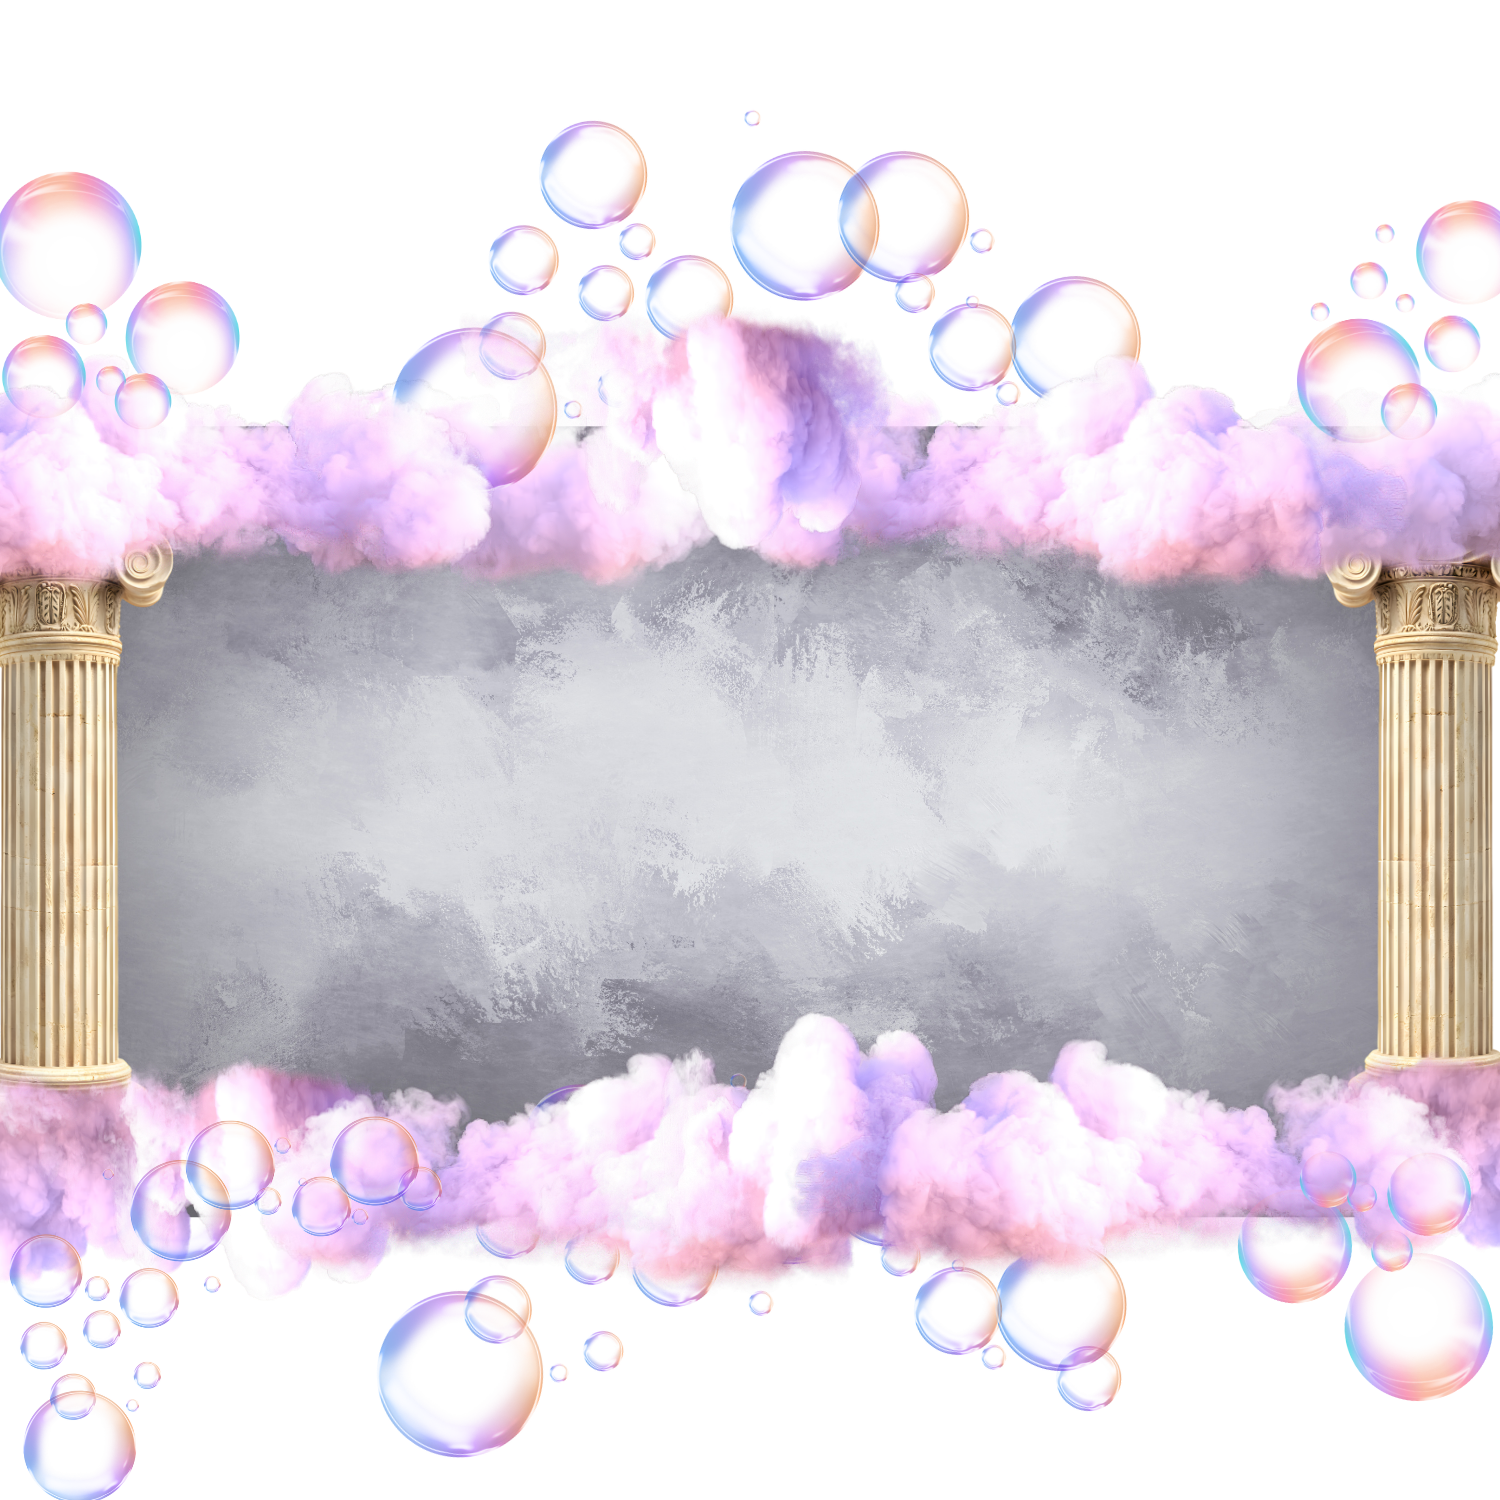
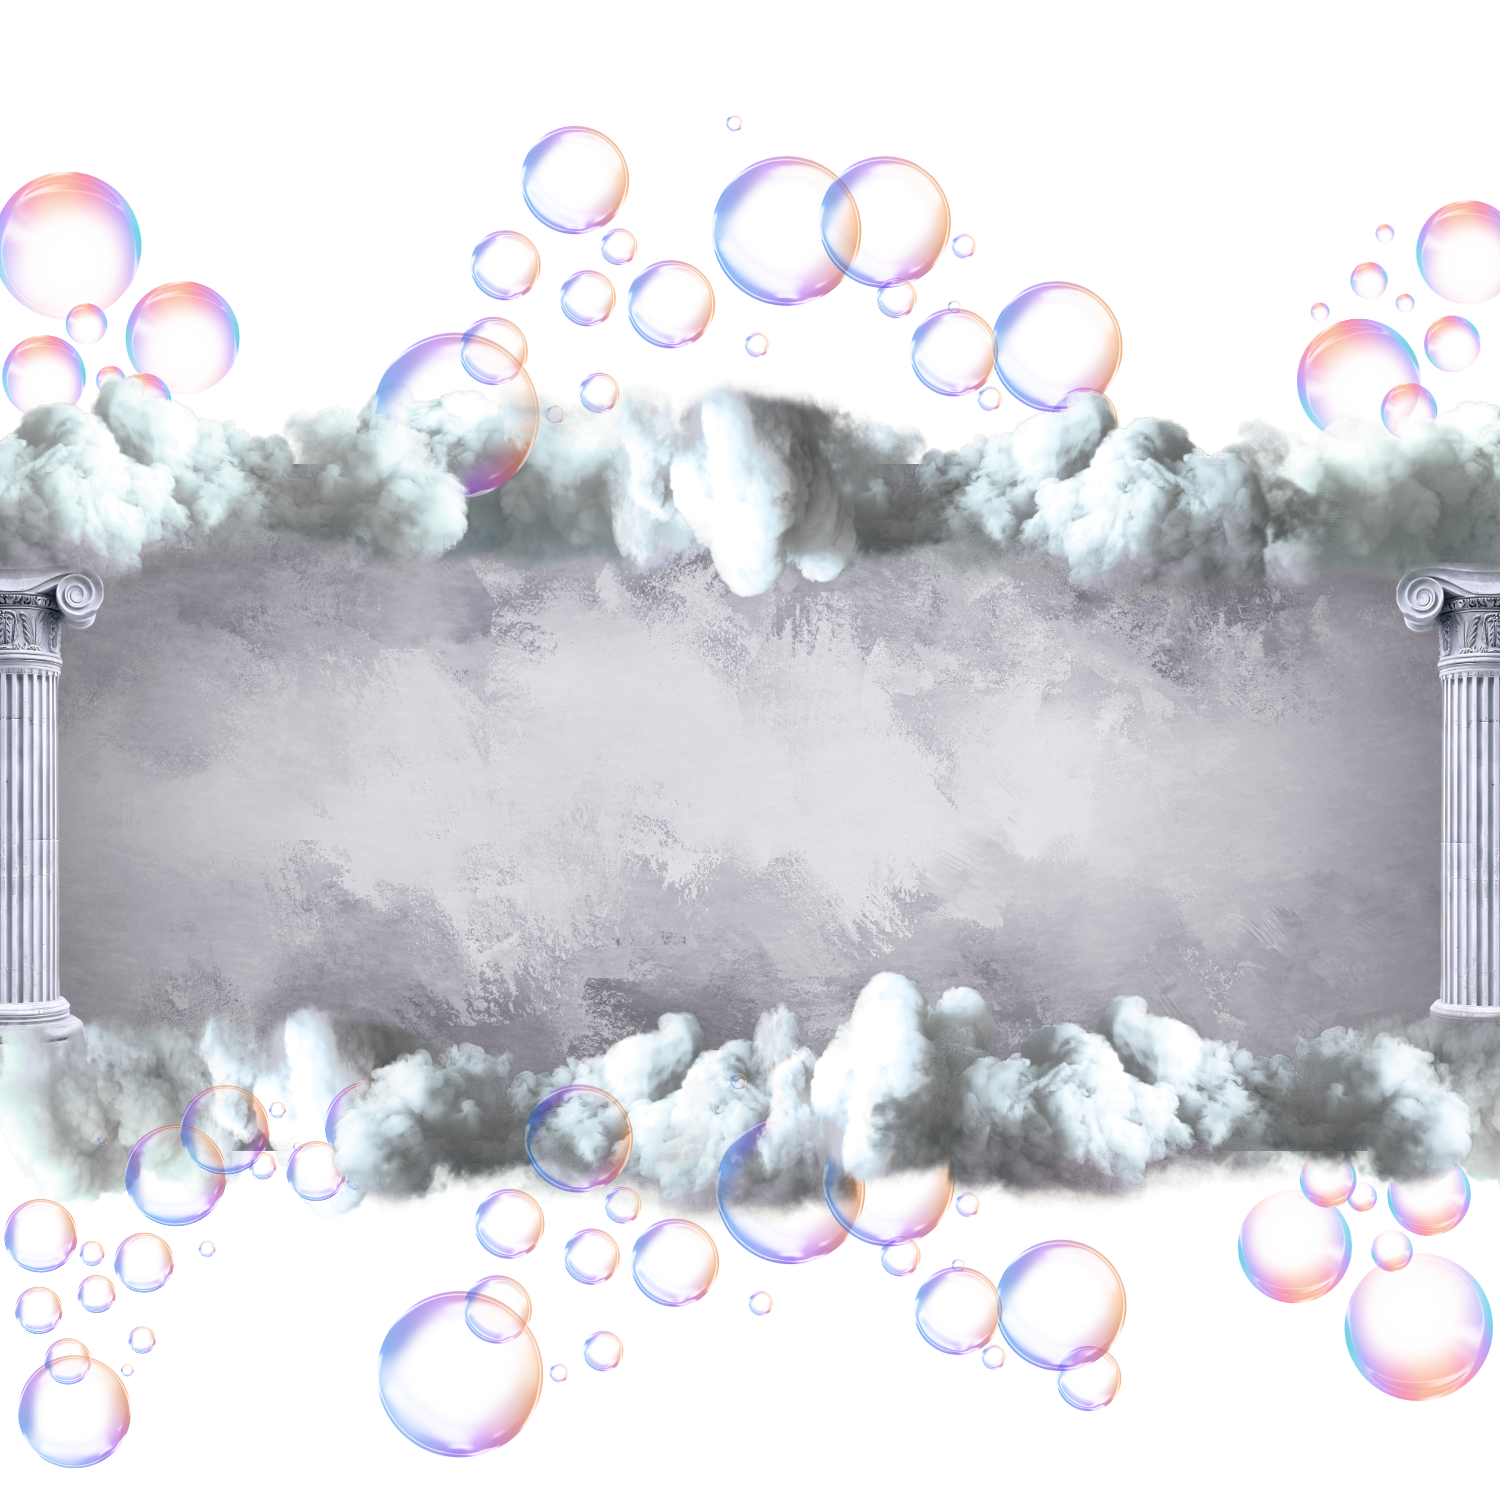
v0.19

diff --git a/src/components/invitation/Guidelines.tsx b/src/components/invitation/Guidelines.tsx
@@ -1,13 +1,27 @@
-import { Shirt, Palette, AlertTriangle } from "lucide-react";
+import { Shirt, Palette, AlertTriangle } from "lucide-react";
 import Image from "next/image";
 import { Section } from "./Section";
 
-function getNoteIcon(note: string): string {
+interface NoteImages {
+  children: string;
+  adults: string;
+  time: string;
+  default: string;
+}
+
+const DEFAULT_NOTE_IMAGES: NoteImages = {
+  children: "/invitaciones/demo-quince/img/prohibido-niños.png",
+  adults: "/invitaciones/demo-quince/img/mayores18.png",
+  time: "/invitaciones/demo-quince/img/tiempo.png",
+  default: "/invitaciones/demo-quince/img/tiempo.png",
+};
+
+function getNoteIcon(note: string, images: NoteImages): string {
   const lower = note.toLowerCase();
-  if (lower.includes("niños") || lower.includes("niños")) return "/invitaciones/demo-quince/img/prohibido-niños.png";
-  if (lower.includes("adultos") || lower.includes("años")) return "/invitaciones/demo-quince/img/mayores18.png";
-  if (lower.includes("minutos") || lower.includes("antes")) return "/invitaciones/demo-quince/img/tiempo.png";
-  return "/invitaciones/demo-quince/img/tiempo.png";
+  if (lower.includes("niños")) return images.children;
+  if (lower.includes("adultos") || lower.includes("años")) return images.adults;
+  if (lower.includes("minutos") || lower.includes("antes") || lower.includes("hora") || lower.includes("entrada") || lower.includes("pm") || lower.includes("am")) return images.time;
+  return images.default;
 }
 
 export function Guidelines({
@@ -17,6 +31,10 @@ export function Guidelines({
   backgroundImage,
   backgroundImageMobile,
   hideTitle,
+  variant = "light",
+  manImage = "/invitaciones/demo-quince/img/men.png",
+  womanImage = "/invitaciones/demo-quince/img/women.png",
+  noteImages = DEFAULT_NOTE_IMAGES,
 }: {
   dressCode?: {
     level: string;
@@ -31,14 +49,24 @@ export function Guidelines({
   backgroundImage?: string;
   backgroundImageMobile?: string;
   hideTitle?: boolean;
+  variant?: "light" | "dark";
+  manImage?: string;
+  womanImage?: string;
+  noteImages?: Partial<NoteImages>;
 }) {
   if (!dressCode && !colorsToAvoid?.length && !notes?.length) return null;
 
+  const images: NoteImages = { ...DEFAULT_NOTE_IMAGES, ...noteImages };
+  const titleClass = variant === "dark" ? "text-gray-100" : "text-gray-800";
+  const bodyClass = variant === "dark" ? "text-gray-300" : "text-gray-700";
+  const mutedClass = variant === "dark" ? "text-gray-400" : "text-gray-500";
+  const captionClass = variant === "dark" ? "text-gray-400" : "text-gray-600";
+
   return (
-    <Section backgroundImage={backgroundImage ?? "/invitaciones/demo-quince/img/papel-fondo.png"} backgroundImageMobile={backgroundImageMobile ?? "/invitaciones/demo-quince/img/papel-fondo-vertical.png"} fullWidth>
+    <Section backgroundImage={backgroundImage ?? "/invitaciones/demo-quince/img/papel-fondo.png"} backgroundImageMobile={backgroundImageMobile ?? "/invitaciones/demo-quince/img/papel-fondo-vertical.png"} fullWidth className="!py-72 md:!py-64 lg:!py-72">
       {!hideTitle && (
         <div className="flex items-center justify-center gap-2 mb-8">
-          <p className="font-display text-gray-800 text-3xl md:text-5xl">Indicaciones</p>
+          <p className={`font-display ${titleClass} text-3xl md:text-5xl`}>Indicaciones</p>
         </div>
       )}
 
@@ -47,28 +75,28 @@ export function Guidelines({
         {dressCode && (
           <div className="text-center">
             <div className="flex flex-col items-center gap-2 mb-3">
-              <p className="font-display text-gray-800 text-3xl">Vestimenta</p>
+              <p className={`font-display ${titleClass} text-3xl`}>Vestimenta</p>
             </div>
 
             {dressCode.maleSuggestions && dressCode.maleSuggestions.length > 0 && dressCode.femaleSuggestions && dressCode.femaleSuggestions.length > 0 ? (
               <div className="flex flex-row gap-4 md:gap-8 mt-6">
                   <div className="flex-1">
                   <div className="flex flex-col items-center mb-3">
-                      <Image src="/invitaciones/demo-quince/img/men.png" alt="Varón" width={500} height={500} className="object-contain w-40 h-40 md:w-52 md:h-52" />
+                      <Image src={manImage} alt="Varón" width={500} height={500} className="object-contain w-32 h-32 md:w-52 md:h-52" />
                   </div>
                   <ul className="space-y-1">
                     {dressCode.maleSuggestions.map((s, i) => (
-                      <li key={i} className="text-sm text-gray-700">{s}</li>
+                      <li key={i} className={`text-base ${bodyClass}`}>{s}</li>
                     ))}
                   </ul>
                 </div>
                 <div className="flex-1">
                   <div className="flex flex-col items-center mb-3">
-                      <Image src="/invitaciones/demo-quince/img/women.png" alt="Mujer" width={500} height={500} className="object-contain w-40 h-40 md:w-52 md:h-52" />
+                      <Image src={womanImage} alt="Mujer" width={500} height={500} className="object-contain w-32 h-32 md:w-52 md:h-52" />
                   </div>
                   <ul className="space-y-1">
                     {dressCode.femaleSuggestions.map((s, i) => (
-                      <li key={i} className="text-sm text-gray-700">{s}</li>
+                      <li key={i} className={`text-base ${bodyClass}`}>{s}</li>
                     ))}
                   </ul>
                 </div>
@@ -78,11 +106,11 @@ export function Guidelines({
                 {dressCode.maleSuggestions && dressCode.maleSuggestions.length > 0 && (
                   <div className="mb-3">
                     <div className="flex flex-col items-center mb-3">
-                    <Image src="/invitaciones/demo-quince/img/men.png" alt="Varón" width={500} height={500} className="object-contain w-40 h-40 md:w-52 md:h-52" />
+                    <Image src={manImage} alt="Varón" width={500} height={500} className="object-contain w-32 h-32 md:w-52 md:h-52" />
                     </div>
                     <ul className="space-y-1">
                       {dressCode.maleSuggestions.map((s, i) => (
-                        <li key={i} className="text-sm text-gray-700">{s}</li>
+                        <li key={i} className={`text-base ${bodyClass}`}>{s}</li>
                       ))}
                     </ul>
                   </div>
@@ -91,11 +119,11 @@ export function Guidelines({
                 {dressCode.femaleSuggestions && dressCode.femaleSuggestions.length > 0 && (
                   <div>
                     <div className="flex flex-col items-center mb-3">
-                    <Image src="/invitaciones/demo-quince/img/women.png" alt="Mujer" width={500} height={500} className="object-contain w-40 h-40 md:w-52 md:h-52" />
+                    <Image src={womanImage} alt="Mujer" width={500} height={500} className="object-contain w-32 h-32 md:w-52 md:h-52" />
                     </div>
                     <ul className="space-y-1">
                       {dressCode.femaleSuggestions.map((s, i) => (
-                        <li key={i} className="text-sm text-gray-700">{s}</li>
+                        <li key={i} className={`text-base ${bodyClass}`}>{s}</li>
                       ))}
                     </ul>
                   </div>
@@ -109,19 +137,19 @@ export function Guidelines({
         {colorsToAvoid && colorsToAvoid.length > 0 && (
           <div className="text-center">
             <div className="flex flex-col items-center gap-2 mb-3">
-              <p className="font-display text-gray-800 text-3xl">Colores Reservados</p>
+              <p className={`font-display ${titleClass} text-3xl`}>Colores Reservados</p>
             </div>
-            <p className="text-gray-500 text-lg mb-4">
+            <p className={`${mutedClass} text-xl mb-4`}>
               Evita usar estos colores
             </p>
             <div className="flex flex-wrap justify-center gap-4">
               {colorsToAvoid.map((c) => (
                 <div key={c.name} className="flex flex-col items-center gap-1.5">
                   <div
-                    className="w-32 h-32 md:w-35 md:h-35 rounded-full border-2 border-gray-400/40 shadow-inner"
+                    className="color-swatch w-24 h-24 md:w-35 md:h-35 rounded-full border-2 border-gray-400/40 shadow-inner"
                     style={{ backgroundColor: c.hex }}
                   />
-                  <span className="text-s text-gray-600">{c.name}</span>
+                  <span className={`text-lg ${captionClass}`}>{c.name}</span>
                 </div>
               ))}
             </div>
@@ -132,19 +160,20 @@ export function Guidelines({
         {notes && notes.length > 0 && (
           <div className="text-center">
             <div className="flex flex-col items-center gap-2 mb-3">
-              <p className="font-display text-gray-800 text-3xl">Consideraciones</p>
+              <p className={`font-display ${titleClass} text-3xl`}>Consideraciones</p>
             </div>
             <div className={`grid grid-cols-2 gap-4 md:gap-8 ${notes.length % 2 !== 0 ? 'md:grid-cols-3' : 'md:grid-cols-2'}`}>
               {notes.map((note, i) => (
                 <div key={i} className="flex flex-col items-center gap-2">
-                  <Image src={getNoteIcon(note)} alt="" width={500} height={500} className="object-cover aspect-square w-40 h-40 md:w-52 md:h-52" />
-                  <span className="text-sm text-gray-700 px-2 md:px-0">{note}</span>
+                  <Image src={getNoteIcon(note, images)} alt="" width={500} height={500} className="object-cover aspect-square w-28 h-28 md:w-48 md:h-48 my-2" />
+                  <span className={`text-base ${bodyClass} px-2 md:px-0`}>{note}</span>
                 </div>
               ))}
             </div>
           </div>
         )}
       </div>
+      <div className="pb-16 md:pb-24" />
     </Section>
   );
 }

diff --git a/src/app/globals.css b/src/app/globals.css
@@ -188,6 +188,58 @@ body {
   animation: gradient-shift 6s ease-in-out infinite;
 }
 
+/* ── Reserved Color Swatches (animated silk/sheen) ── */
+.color-swatch {
+  position: relative;
+  overflow: hidden;
+  animation: swatch-glow 4s ease-in-out infinite;
+}
+.color-swatch::before {
+  content: "";
+  position: absolute;
+  inset: -45%;
+  background: conic-gradient(
+    from 0deg,
+    transparent 0deg,
+    rgba(255, 255, 255, 0.22) 55deg,
+    rgba(255, 255, 255, 0.02) 110deg,
+    transparent 160deg,
+    transparent 220deg,
+    rgba(255, 255, 255, 0.14) 290deg,
+    transparent 360deg
+  );
+  animation: swatch-rotate 7s linear infinite;
+  pointer-events: none;
+}
+.color-swatch::after {
+  content: "";
+  position: absolute;
+  top: -10%;
+  left: -80%;
+  width: 45%;
+  height: 120%;
+  background: linear-gradient(120deg, transparent, rgba(255, 255, 255, 0.3), transparent);
+  transform: skewX(-18deg);
+  animation: swatch-sheen 3.8s ease-in-out infinite;
+  pointer-events: none;
+}
+@keyframes swatch-rotate {
+  from { transform: rotate(0deg); }
+  to { transform: rotate(360deg); }
+}
+@keyframes swatch-sheen {
+  0% { left: -80%; }
+  55%, 100% { left: 130%; }
+}
+@keyframes swatch-glow {
+  0%, 100% {
+    box-shadow: 0 0 10px rgba(255, 255, 255, 0.07), inset 0 0 14px rgba(0, 0, 0, 0.35);
+  }
+  50% {
+    box-shadow: 0 0 26px rgba(255, 255, 255, 0.18), inset 0 0 20px rgba(0, 0, 0, 0.5);
+  }
+}
+
 /* ── Cinematic Button Styles ── */
 .cinematic-btn-primary {
   background: linear-gradient(135deg, #A81835, #7B0F24);

diff --git a/src/app/[slug]/page.tsx b/src/app/[slug]/page.tsx
@@ -208,10 +208,17 @@ export default async function InvitationPage({
                   backgroundImage="/invitaciones/ximena-cahuana-xv/img/fondo-indicaciones.png"
                   backgroundImageMobile="/invitaciones/ximena-cahuana-xv/img/fondo-indicaciones.png"
                   hideTitle
+                  variant="dark"
+                  manImage="/invitaciones/ximena-cahuana-xv/img/genero/hombre.png"
+                  womanImage="/invitaciones/ximena-cahuana-xv/img/genero/mujer.png"
+                  noteImages={{
+                    time: "/invitaciones/ximena-cahuana-xv/img/consideraciones/tiempo.png",
+                    default: "/invitaciones/ximena-cahuana-xv/img/consideraciones/lista.png",
+                  }}
                 />
               </RevealSection>
               <RevealSection>
-                <RSVPForm slug={data.slug} />
+                <RSVPForm slug={data.slug} allowGuests={data.rsvp.allowGuests ?? true} />
               </RevealSection>
               <RevealSection>
                 <WhatsappGroup
@@ -298,7 +305,7 @@ export default async function InvitationPage({
                 />
               </RevealSection>
               <RevealSection>
-                <RSVPForm slug={data.slug} />
+                <RSVPForm slug={data.slug} allowGuests={data.rsvp.allowGuests ?? true} />
               </RevealSection>
               <RevealSection>
                 <WhatsappGroup

diff --git a/src/components/invitation/RSVPForm.tsx b/src/components/invitation/RSVPForm.tsx
@@ -1,7 +1,7 @@
 "use client";
 
 import { useEffect, useState } from "react";
-import { CheckCircle, XCircle, Users } from "lucide-react";
+import { CheckCircle, XCircle } from "lucide-react";
 import { Section } from "./Section";
 
 interface PublicEntry {
@@ -10,7 +10,13 @@ interface PublicEntry {
   guests: number;
 }
 
-export function RSVPForm({ slug }: { slug: string }) {
+export function RSVPForm({
+  slug,
+  allowGuests = true,
+}: {
+  slug: string;
+  allowGuests?: boolean;
+}) {
   const [name, setName] = useState("");
   const [attending, setAttending] = useState(true);
   const [guests, setGuests] = useState(0);
@@ -114,10 +120,9 @@ export function RSVPForm({ slug }: { slug: string }) {
           </button>
         </div>
 
-        {attending && (
+        {allowGuests && attending && (
           <label className="flex items-center justify-between text-sm">
             <span className="flex items-center gap-2">
-              <Users className="w-4 h-4 text-[#C0C0C0]" />
               Acompañantes
             </span>
             <input

diff --git a/src/content/ximena-cahuana-xv/data.ts b/src/content/ximena-cahuana-xv/data.ts
@@ -40,10 +40,10 @@ export const ximenaCahuanaXv: InvitationData = {
       maleSuggestions: ["Traje oscuro", "Camisa blanca", "Zapatos formales"],
     },
     colorsToAvoid: [
-      { name: "Plateado", hex: "#C0C0C0" },
+      { name: "Negro", hex: "#000000" },
       { name: "Azul", hex: "#0000FF" },
     ],
-    notes: ["La entrada será a las 7:00 PM", "Estacionamiento disponible"],
+    notes: ["Llegar puntual para la entrada", "Se asistira solo con la invitación confirmada"],
   },
 
   gifts: {
@@ -67,14 +67,15 @@ export const ximenaCahuanaXv: InvitationData = {
 
   rsvp: {
     whatsappPhone: "+51 974777591",
+    allowGuests: false,
   },
 
   farewellMessage:
     "",
 
   host: {
-    name: "Ximena Cahuana",
-    relation: "",
+    name: "Ximena",
+    relation: "La patrona",
     phone: "+51 974777591",
   },
 

diff --git a/src/components/invitation/cinematic/CinematicFooter.tsx b/src/components/invitation/cinematic/CinematicFooter.tsx
@@ -43,8 +43,8 @@ export function CinematicFooter({
       <div className="absolute inset-0 bg-gradient-to-b from-[#090909]/60 via-transparent to-[#090909]/80 pointer-events-none" />
 
       <div className="relative max-w-md mx-auto px-6 py-12 md:max-w-2xl md:px-10 lg:max-w-4xl lg:px-16">
-        <div className="flex items-center justify-center gap-2 mb-4">
-          <Heart className="w-4 h-4 text-[#C0C0C0]" />
+        <div className="flex flex-col items-center justify-center gap-2 mb-4">
+          <Heart className="w-5 h-5 text-[#C0C0C0]" />
           <p
             className="text-lg sm:text-xl font-bold text-[#F2F2F2]"
             style={{ fontFamily: "var(--font-cinematic-display)" }}

diff --git a/src/components/invitation/Countdown.tsx b/src/components/invitation/Countdown.tsx
@@ -43,7 +43,7 @@ export function Countdown({ eventDate, backgroundImage }: { eventDate: string; b
       <div className="flex justify-center gap-6 md:gap-15">
         {units.map((u) => (
           <div key={u.label} className="w-16 md:w-24">
-            <div className="font-display text-4xl md:text-7xl tabular-nums font-bold text-[#C0C0C0]" style={{ textShadow: "0 0 10px rgba(192,192,192,0.4)" }}>
+            <div className="font-display text-4xl md:text-7xl tabular-nums font-bold text-[#211B04]" style={{ textShadow: "0 0 5px rgba(60, 9, 84, 0.87)" }}>
               {u.value}
             </div>
             <div className="text-s uppercase text-gray-800 mt-1">

diff --git a/src/content/types.ts b/src/content/types.ts
@@ -94,6 +94,8 @@ export interface InvitationData {
     // Si se define, además de guardar en la lista interna, se ofrece
     // un botón directo a WhatsApp con mensaje prellenado.
     whatsappPhone?: string;
+    // Si es false, no se permite agregar acompañantes en el RSVP.
+    allowGuests?: boolean;
   };
 
   farewellMessage?: string;
